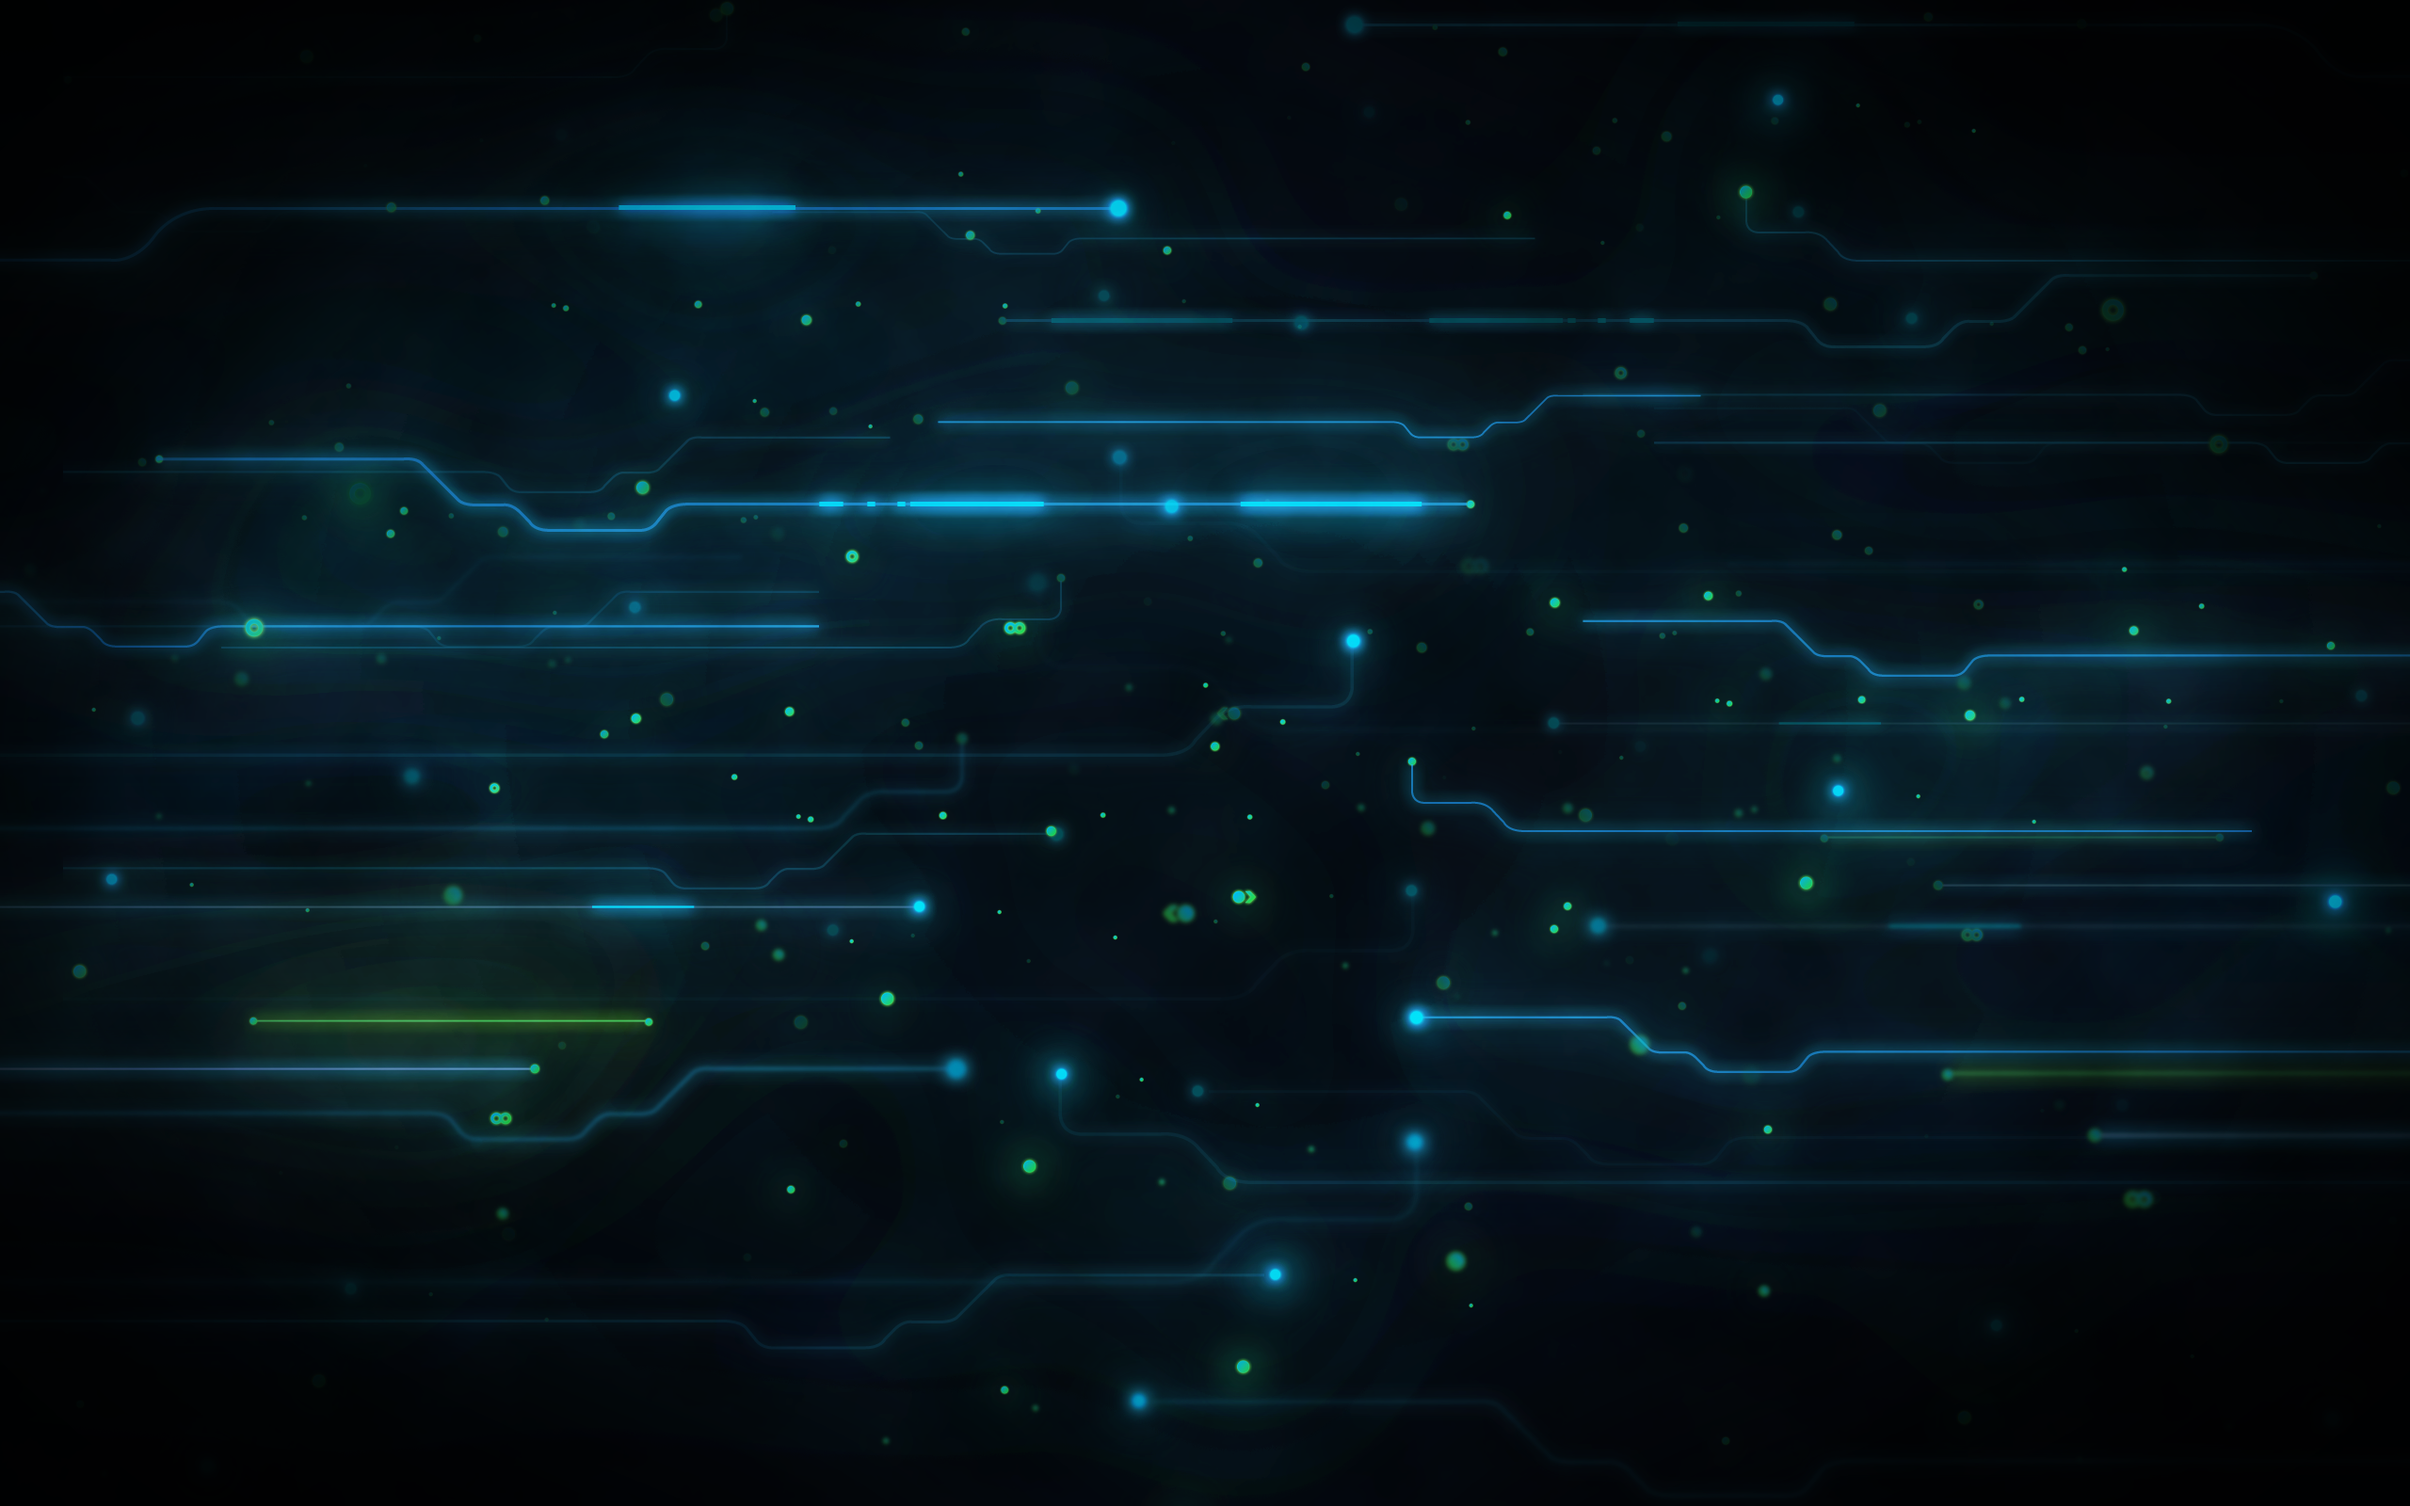
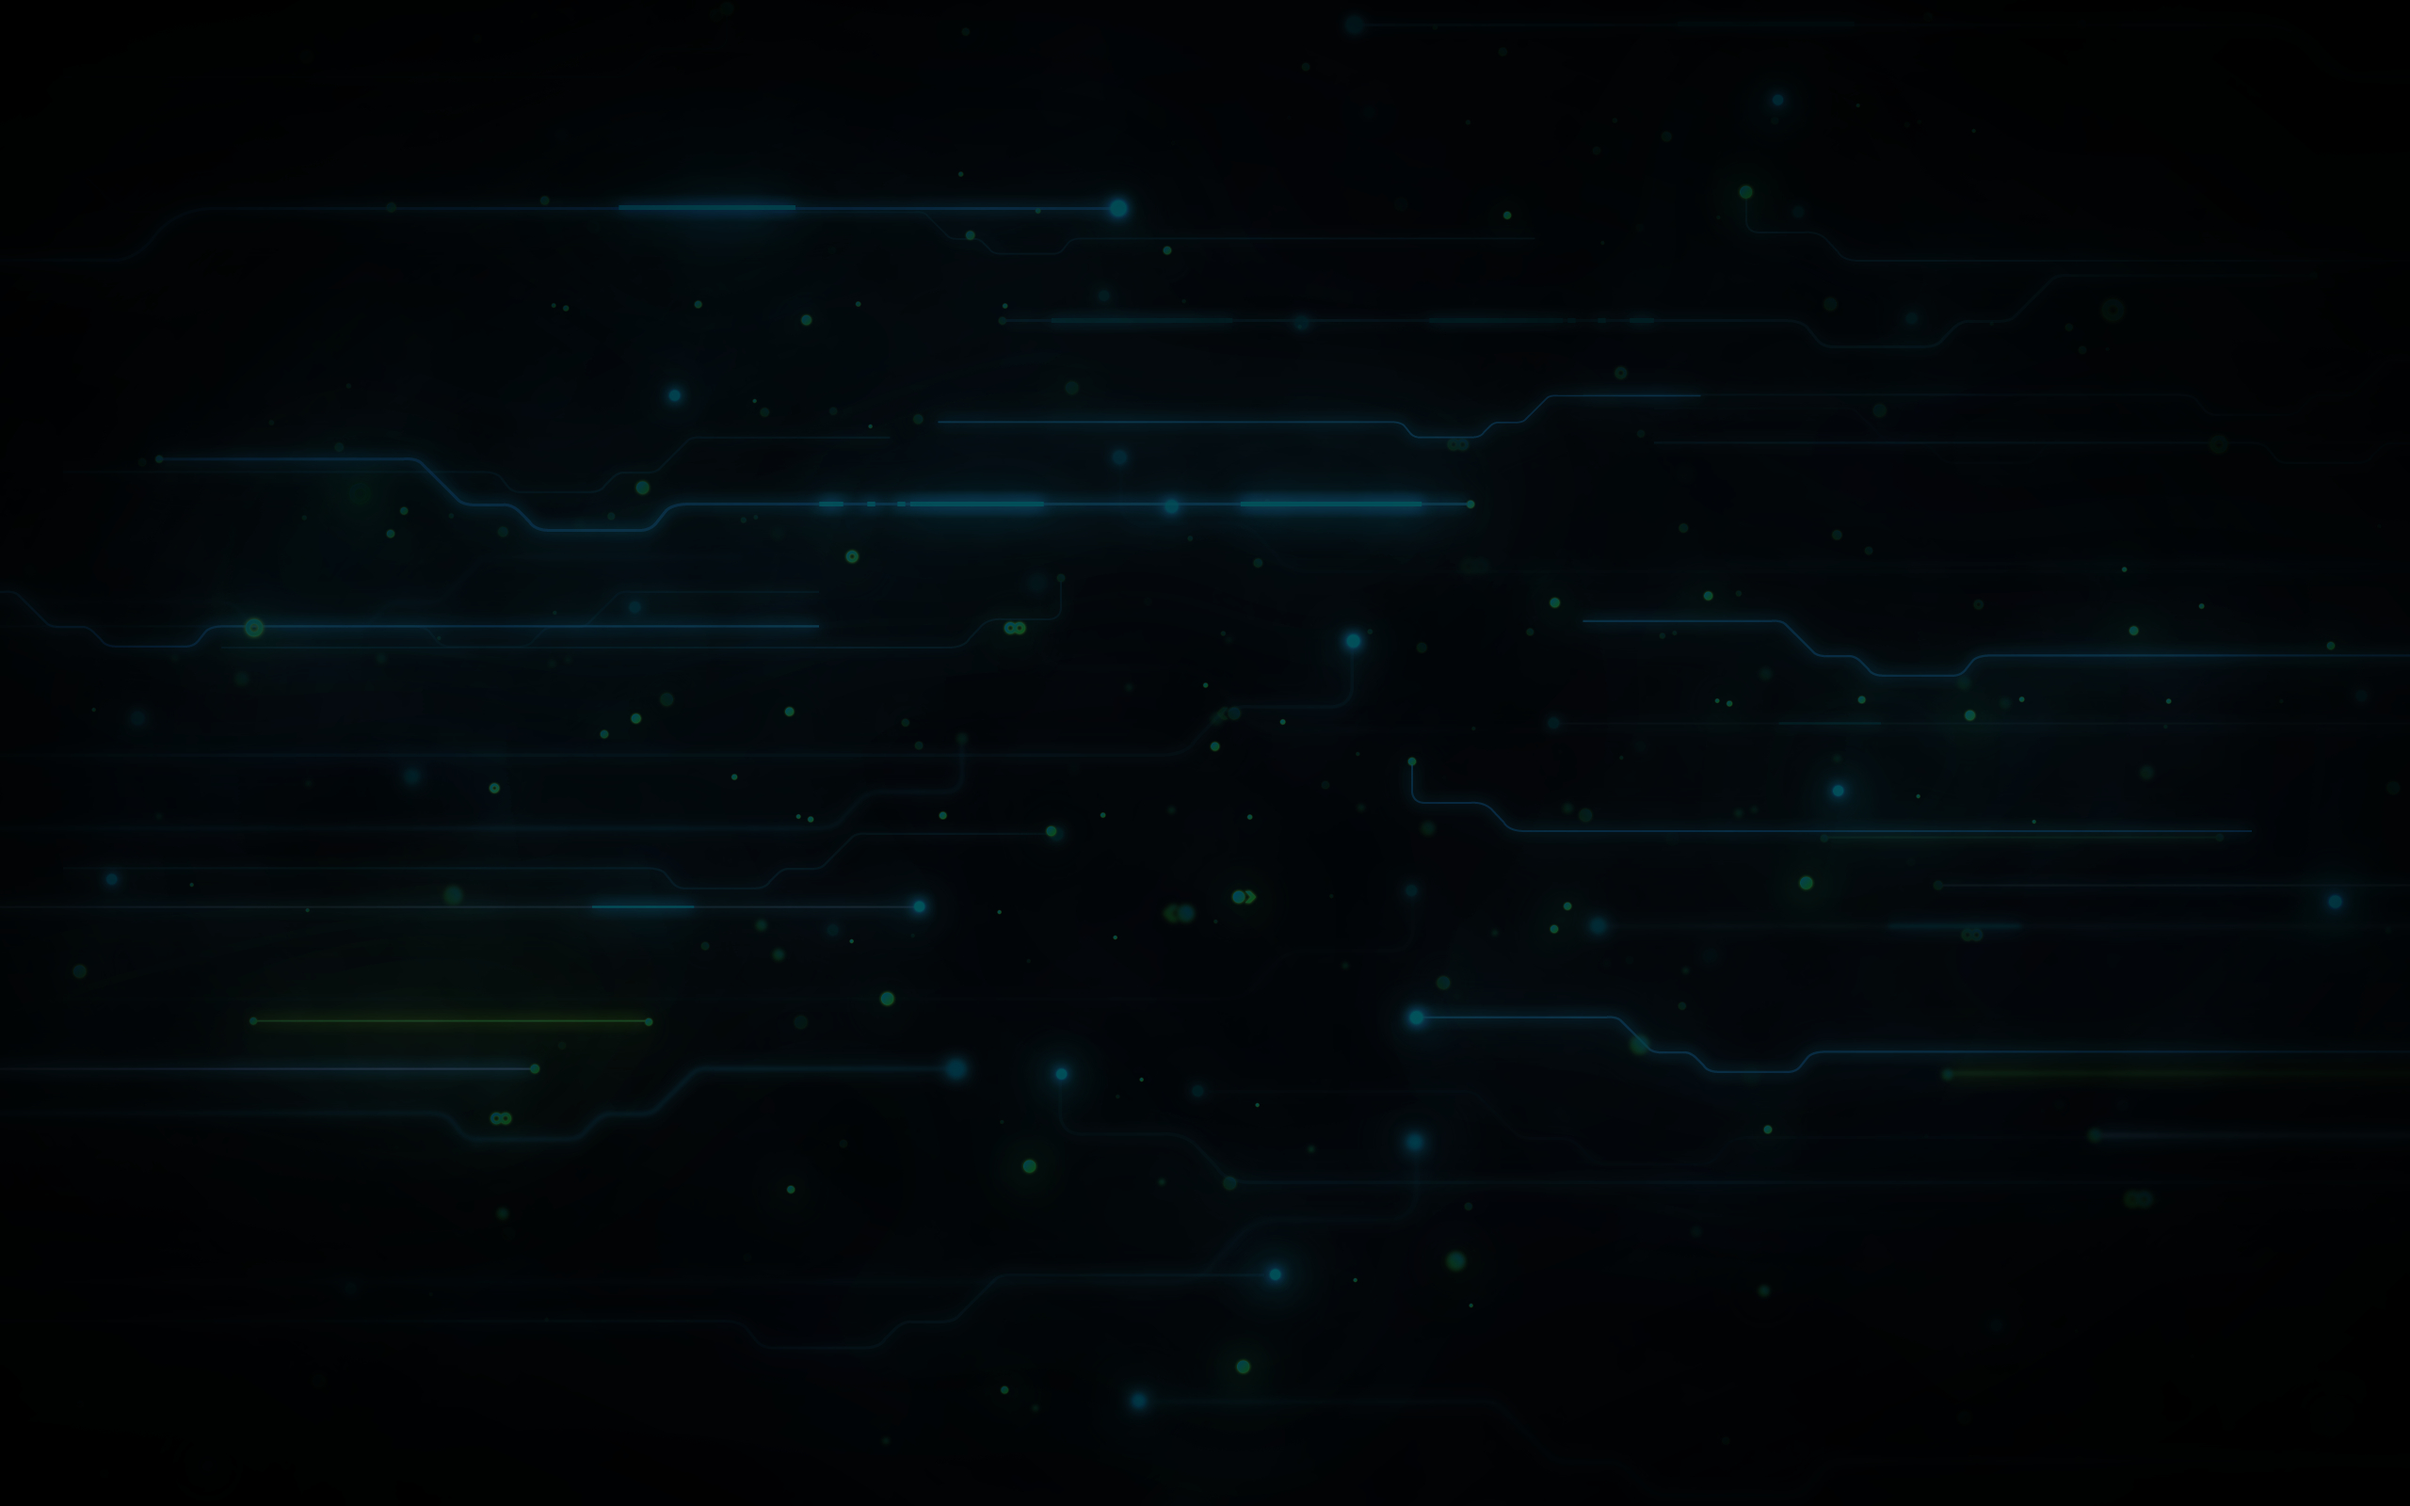
Background changed

diff --git a/resources/style.css b/resources/style.css
@@ -6,7 +6,7 @@ body{
     /* background-color: rgb(247, 241, 232); */
     background-image: url(../resources/images/background/bg.jpg);
     background-repeat: repeat;
-    box-shadow: inset 0 0 0 1000px rgba(0, 0, 0, 0.95);
+    box-shadow: inset 0 0 0 1000px rgba(0, 0, 0, 0.99);
     color: rgb(154, 154, 250);
     
 }
